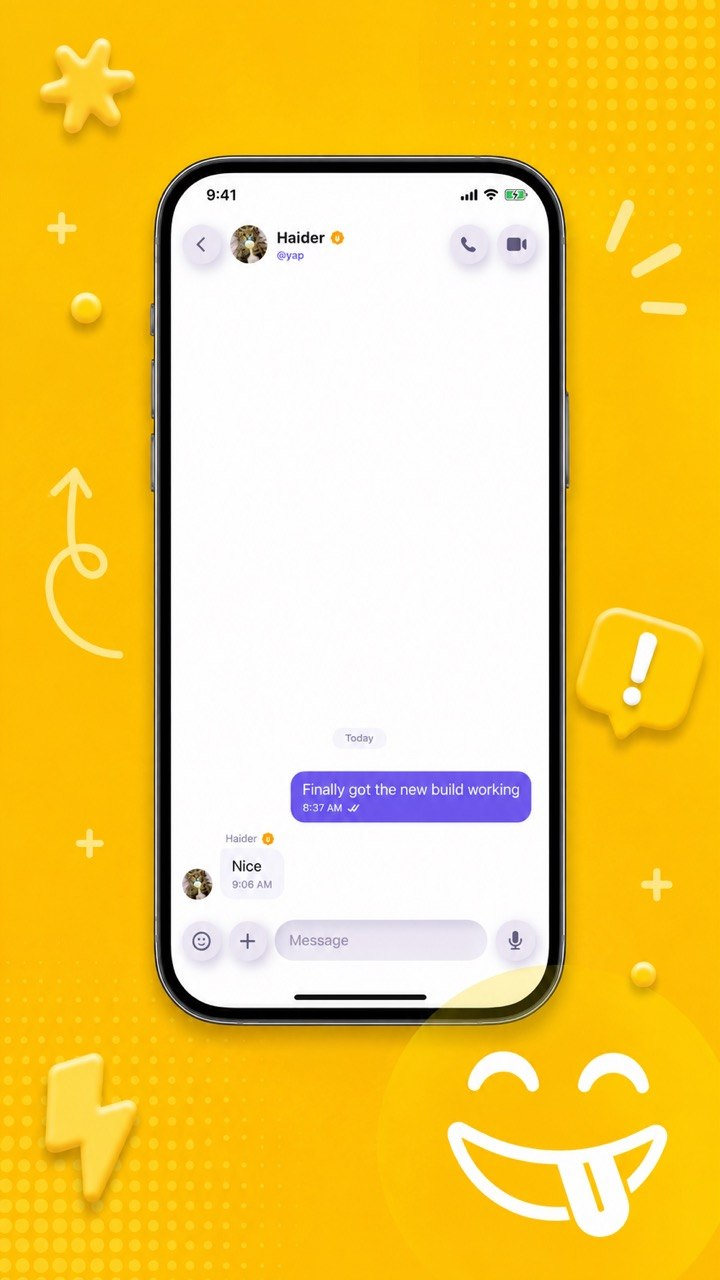
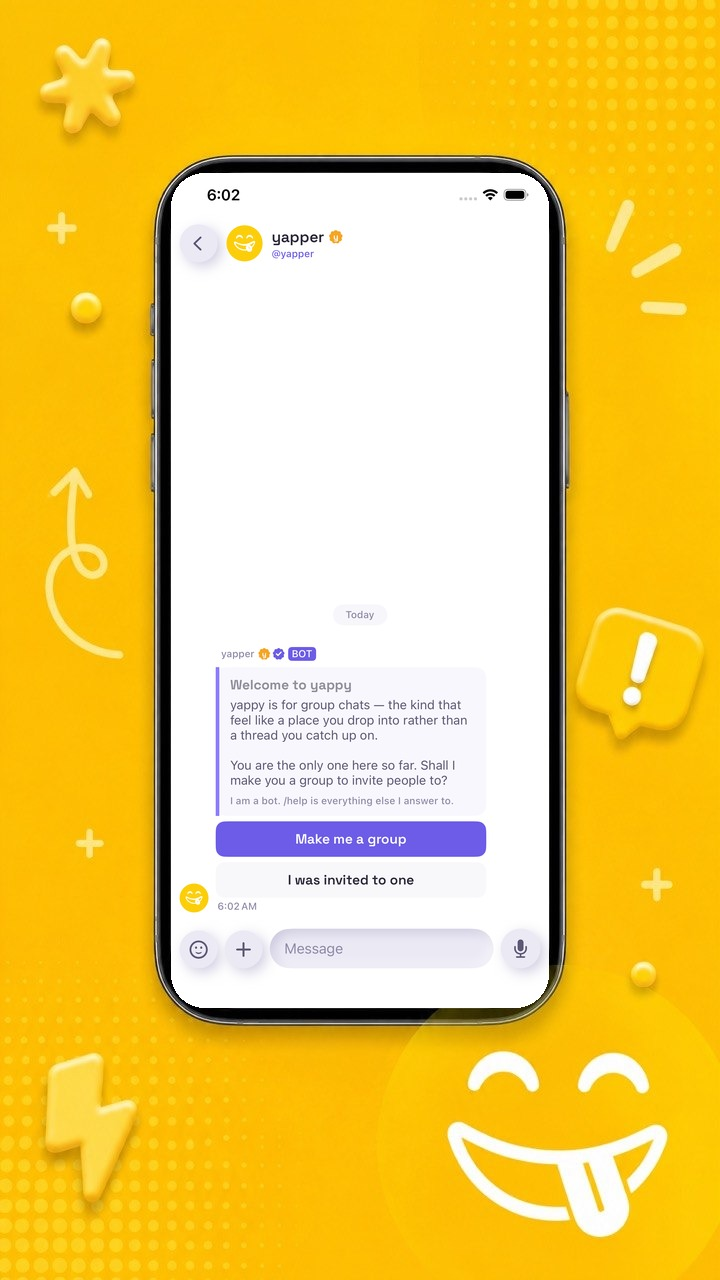
Landing page shots taken from the build that is actually shipping
The old three were shot before calling was gated off, so every one of them had
a phone and a video button in the chat header — a feature the iOS app no longer
has anywhere in it. The hero image is the first thing on the page and it was
advertising something an iPhone user would go looking for and never find.

New captures from the 6.5-inch simulator running current main, composited into
the existing artwork rather than replacing it: same yellow, same doodles, same
phone. Only what is on the screen changed. The frame was found by looking for
the bezel, which took two goes — the first threshold kept locking onto the drop
shadow underneath the phone, because a dark yellow has a low maximum channel
too. Neutrality is what tells black apart from dark orange.

Alt text corrected while there. One said "places and people" for a list with no
places in it, and the other described a profile "with follow, message and call"
beside what is now a one-to-one chat. Both were describing the old pictures.

Not fixed here, and worth its own decision: the copy beside these still
promises calling in as many words. That claim is true of Android and false of
iOS, and prose is a firmer promise than a button in a picture.

diff --git a/web/index.html b/web/index.html
@@ -311,7 +311,7 @@ footer .mini img { height: 15px; }
       </div>
       <div class="poster">
         <img src="screenshots/phone-home.jpg" width="720" height="1280" loading="lazy"
-             alt="The yappy home screen: places and people">
+             alt="The yappy home screen, listing your conversations">
       </div>
     </div>
   </div>
@@ -322,7 +322,7 @@ footer .mini img { height: 15px; }
     <div class="split rev">
       <div class="poster">
         <img src="screenshots/phone-profile.jpg" width="720" height="1280" loading="lazy"
-             alt="A yappy profile with follow, message and call">
+             alt="A one-to-one conversation in yappy">
       </div>
       <div>
         <span class="kicker">People, not usernames</span>
